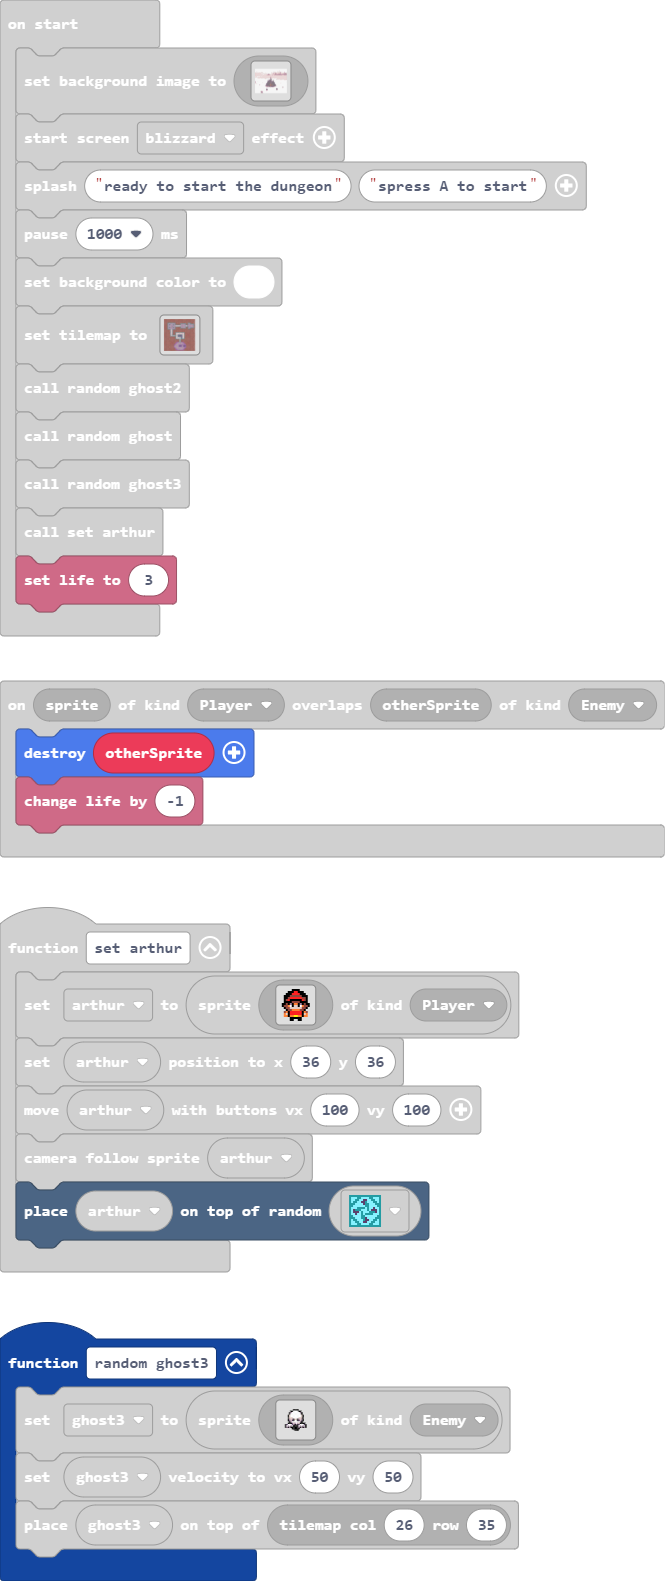
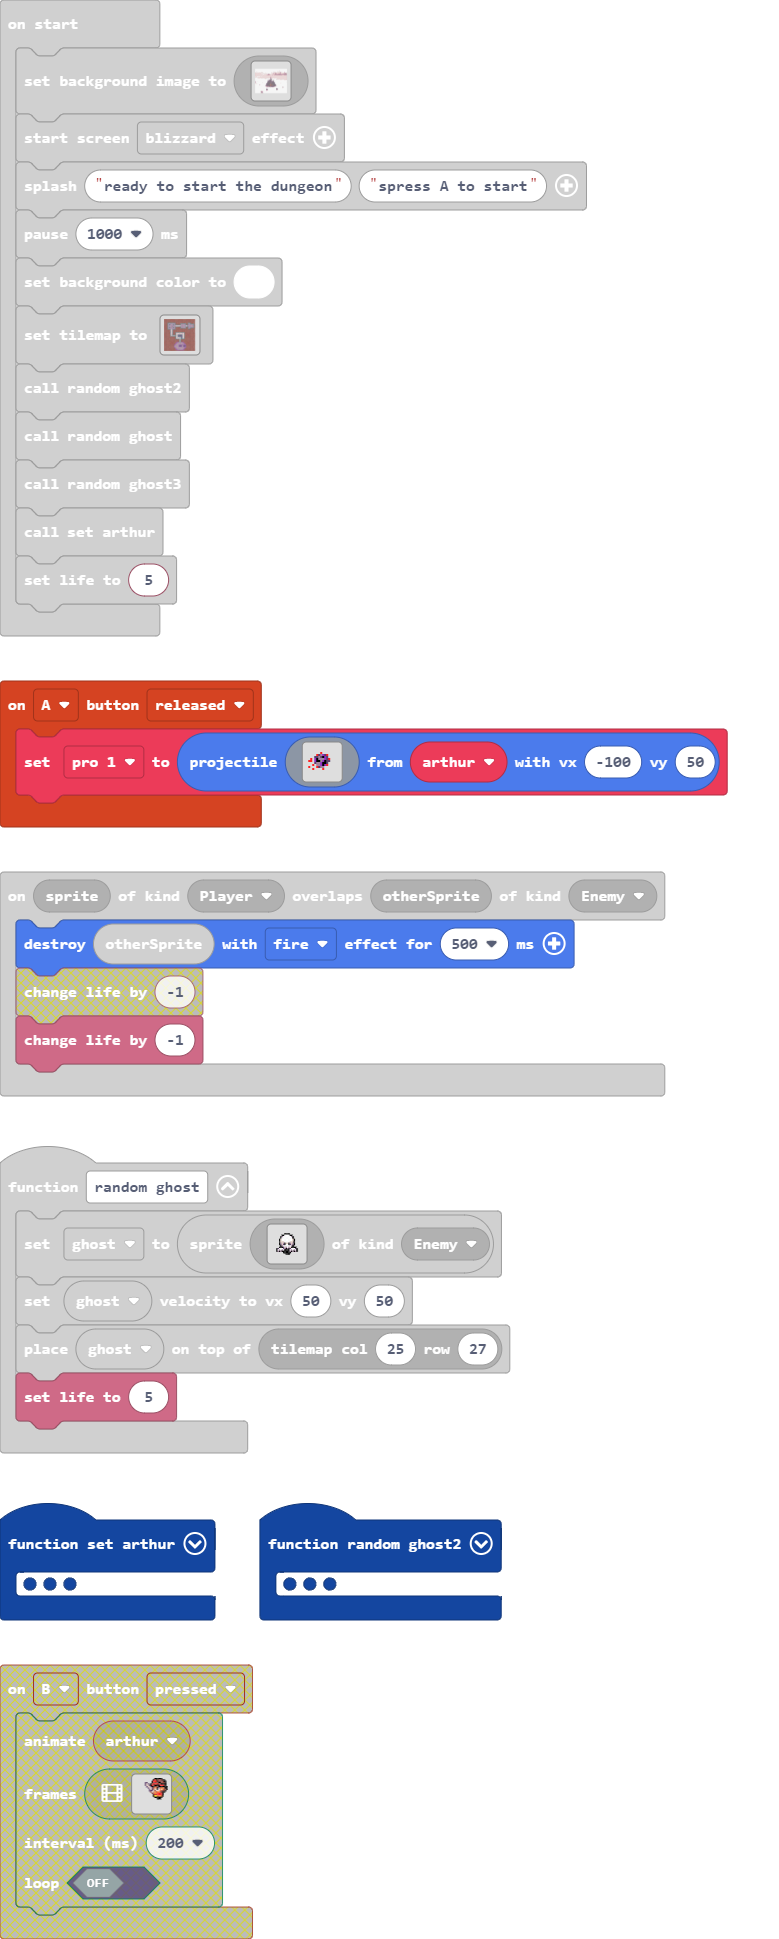
Update main.blocks, main.ts

diff --git a/main.ts b/main.ts
@@ -74,114 +74,6 @@ controller.up.onEvent(ControllerButtonEvent.Pressed, function () {
     false
     )
 })
-controller.B.onEvent(ControllerButtonEvent.Pressed, function () {
-    animation.runImageAnimation(
-    arthur,
-    [img`
-        ..............ffffff....
-        .............f2feeeeff..
-        ............f222feeeeff.
-        .......cc...feeeeffeeef.
-        .......cdc.fe2222eeffff.
-        .......cddcf2effff222ef.
-        ........cddcffeeefffffff
-        .........cddce44fbe44eff
-        ..........cdceddf14d4eef
-        ..........cccdeddd4eeef.
-        ...........edd4e44eeff..
-        ............ee442222f...
-        .............f2e2222f...
-        .............f554444f...
-        ..............ffffff....
-        ................fff.....
-        ........................
-        ........................
-        ........................
-        ........................
-        ........................
-        ........................
-        ........................
-        ........................
-        `,img`
-        ........................
-        ..............fff.......
-        .............f2fffff....
-        ...........ff22eeeeeff..
-        ..........ff222eeeeeeff.
-        ..........feeeefffeeeef.
-        .........fe2222eeefffff.
-        .........f2efffff222efff
-        ..cc.....fffeeefffffffff
-        ..cdcc...fee44fbbe44efef
-        ..ccddcc..feddfbb4d4eef.
-        ....cdddceefddddd4eeef..
-        .....ccdcddee2222222f...
-        ......cccdd44e544444f...
-        .........eeeeffffffff...
-        .............ff...fff...
-        ........................
-        ........................
-        ........................
-        ........................
-        ........................
-        ........................
-        ........................
-        ........................
-        `,img`
-        ...............ff.......
-        .............ff2ffff....
-        ............ff2feeeeff..
-        ...........ff22feeeeeff.
-        ...........feeeeffeeeef.
-        ..........fe2222eefffff.
-        ..........f2effff222efff
-        ..........fffeeeffffffff
-        ..........fee44fbe44efef
-        ...........feddfb4d4eef.
-        ..........c.eeddd4eeef..
-        ....ccccccceddee2222f...
-        .....dddddcedd44e444f...
-        ......ccccc.eeeefffff...
-        ..........c...ffffffff..
-        ...............ff..fff..
-        ........................
-        ........................
-        ........................
-        ........................
-        ........................
-        ........................
-        ........................
-        ........................
-        `,img`
-        ..............ffffff....
-        .............f2feeeeff..
-        ............f222feeeeff.
-        ............feeeeffeeef.
-        ...........fe2222eeffff.
-        ...........f2effff222ef.
-        ...........fffeeefffffff
-        ...........fee44fbe44eff
-        ............feddf14d4eef
-        .............fdddd4eeef.
-        .............fe444eddf..
-        .............ccc22eddf..
-        .............cdc22fee...
-        ............cddc4444f...
-        ...........cddcfffff....
-        ..........cddc..fff.....
-        ..........cdc...........
-        ..........cc............
-        ........................
-        ........................
-        ........................
-        ........................
-        ........................
-        ........................
-        `],
-    200,
-    false
-    )
-})
 function set_arthur () {
     arthur = sprites.create(img`
         . . . . . . f f f f . . . . . . 
@@ -358,6 +250,26 @@ controller.right.onEvent(ControllerButtonEvent.Pressed, function () {
     false
     )
 })
+controller.A.onEvent(ControllerButtonEvent.Released, function () {
+    pro_1 = sprites.createProjectileFromSprite(img`
+        . . . . . . . . . . . . . . . . 
+        . . . . . . . . . . . . . . . . 
+        . . . . . . . . . . . . . . . . 
+        . . . . . . . 2 . . . . . . . . 
+        . . . . . 2 c b a c 2 . . . . . 
+        . . . . c c b c f a c . . . . . 
+        . . 2 . a f b b b a c 2 . . . . 
+        . 2 2 . a f f b a f c c . . . . 
+        . . . . c b b a f f c . . . . . 
+        . . . 2 . b b a f a 2 . . . . . 
+        . 2 . . . 2 c b b . . . . . . . 
+        . . . 2 . . . . 2 . . . . . . . 
+        . . . . . . . . . . . . . . . . 
+        . . . . . . . . . . . . . . . . 
+        . . . . . . . . . . . . . . . . 
+        . . . . . . . . . . . . . . . . 
+        `, arthur, -100, 50)
+})
 function random_ghost () {
     ghost = sprites.create(img`
         ........................
@@ -387,6 +299,7 @@ function random_ghost () {
         `, SpriteKind.Enemy)
     ghost.setVelocity(50, 50)
     tiles.placeOnTile(ghost, tiles.getTileLocation(25, 27))
+    info.setLife(5)
 }
 function random_ghost2 () {
     ghost2 = sprites.create(img`
@@ -531,6 +444,7 @@ sprites.onOverlap(SpriteKind.Player, SpriteKind.Enemy, function (sprite, otherSp
 let ghost3: Sprite = null
 let ghost2: Sprite = null
 let ghost: Sprite = null
+let pro_1: Sprite = null
 let arthur: Sprite = null
 scene.setBackgroundImage(img`
     1111111111111111111111111111111111111111111111111111111111111111111111111111111111111111111111111111111111111111111111111111111111111111111111111111111111111111
@@ -663,7 +577,7 @@ random_ghost2()
 random_ghost()
 random_ghost3()
 set_arthur()
-info.setLife(3)
+info.setLife(5)
 game.onUpdate(function () {
     if (ghost3.isHittingTile(CollisionDirection.Bottom)) {
         ghost3.vx += 50
